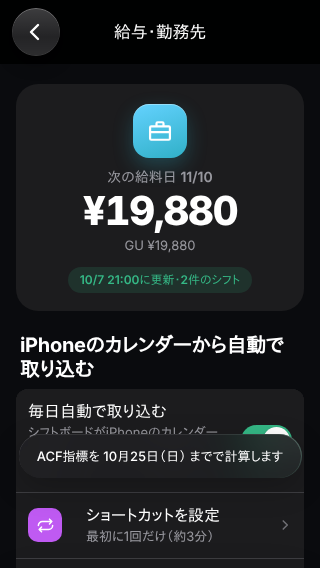
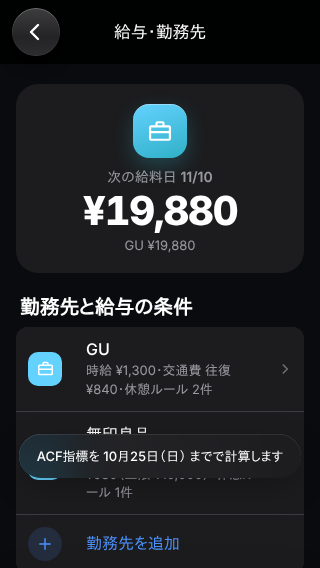
点検の修正: 選択の行にも押した反応、ACFカードの検査を新しい形（2本の棒・m/dまで）に更新
Claude-Session: https://claude.ai/code/session_01QcLHSFmCgP6AMvjxwyHjWT

diff --git a/assets/app.af86bc923a6a.css b/assets/app.af86bc923a6a.css
@@ -4011,3 +4011,7 @@ button:disabled, .row[aria-disabled="true"] { opacity: .4 }
 /* 18. 給与画面: 自動取り込みは目立たせず、小さな一行だけ（押すと設定） */
 .sal-sync-note { display: block; margin: 6px 4px 10px; padding: 2px 0; border: 0; background: none; font: inherit; font-size: 12px; color: var(--label3); text-align: left; cursor: pointer }
 .sal-sync-note:active { opacity: .5 }
+
+/* 19. 選択の行（休憩ルール・ACFの期間）も押すと色が付く */
+.form-card label.row { transition: background-color .32s ease-out }
+.form-card label.row:active { background-color: var(--fill); transition-duration: 0s }

diff --git a/src/css/salary-shift.css b/src/css/salary-shift.css
@@ -99,3 +99,7 @@ button:disabled, .row[aria-disabled="true"] { opacity: .4 }
 /* 18. 給与画面: 自動取り込みは目立たせず、小さな一行だけ（押すと設定） */
 .sal-sync-note { display: block; margin: 6px 4px 10px; padding: 2px 0; border: 0; background: none; font: inherit; font-size: 12px; color: var(--label3); text-align: left; cursor: pointer }
 .sal-sync-note:active { opacity: .5 }
+
+/* 19. 選択の行（休憩ルール・ACFの期間）も押すと色が付く */
+.form-card label.row { transition: background-color .32s ease-out }
+.form-card label.row:active { background-color: var(--fill); transition-duration: 0s }

diff --git a/index.html b/index.html
@@ -12,7 +12,7 @@
 <link rel="manifest" href="./manifest.webmanifest">
 <link rel="apple-touch-icon" href="./icons/app-192.png?v=wallet-20261110">
 <link rel="icon" type="image/png" href="./icons/app-192.png?v=wallet-20261110">
-<link rel="stylesheet" href="./assets/app.3c1d0e3bcfcc.css">
+<link rel="stylesheet" href="./assets/app.af86bc923a6a.css">
 <script src="https://accounts.google.com/gsi/client" async defer></script>
 </head>
 <body>
